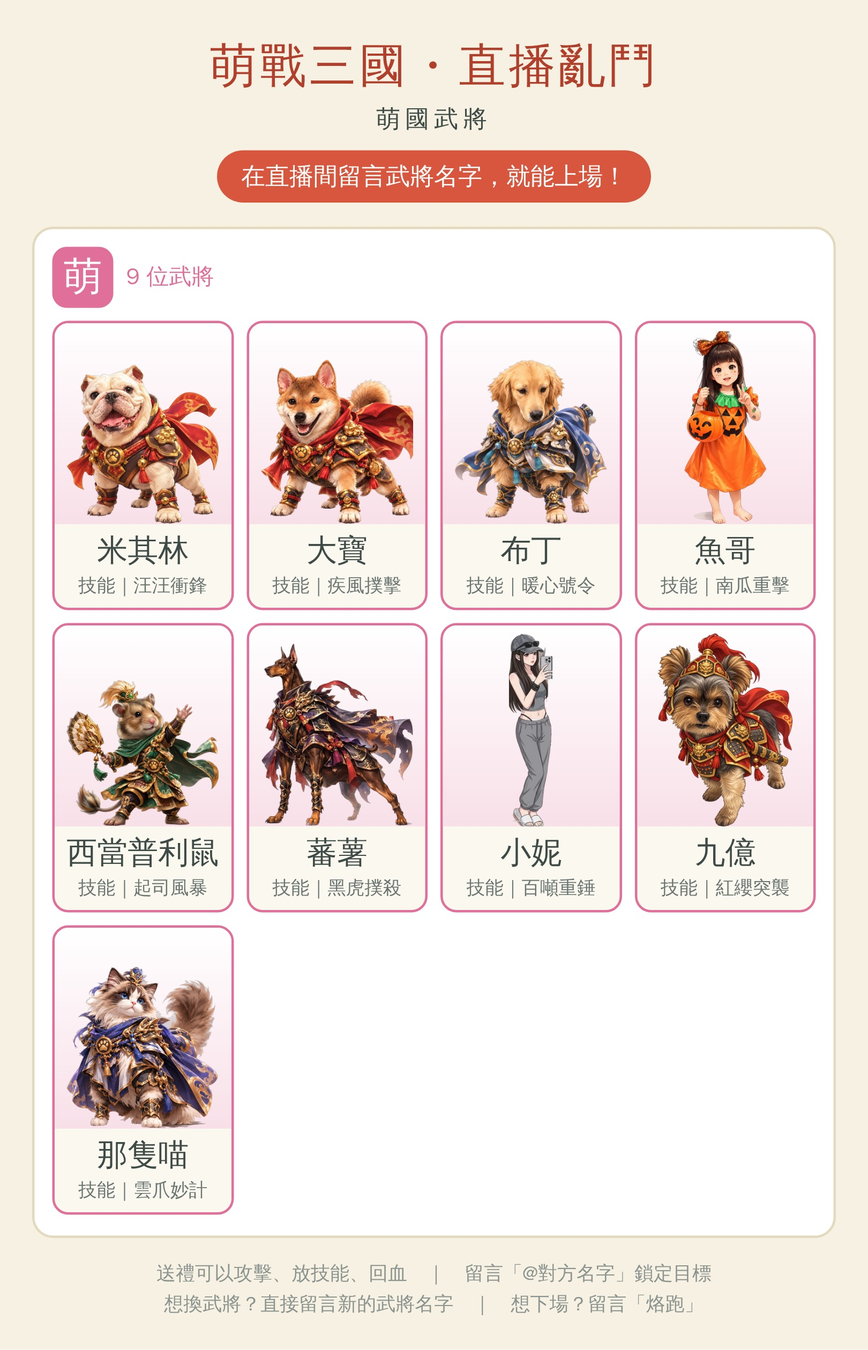
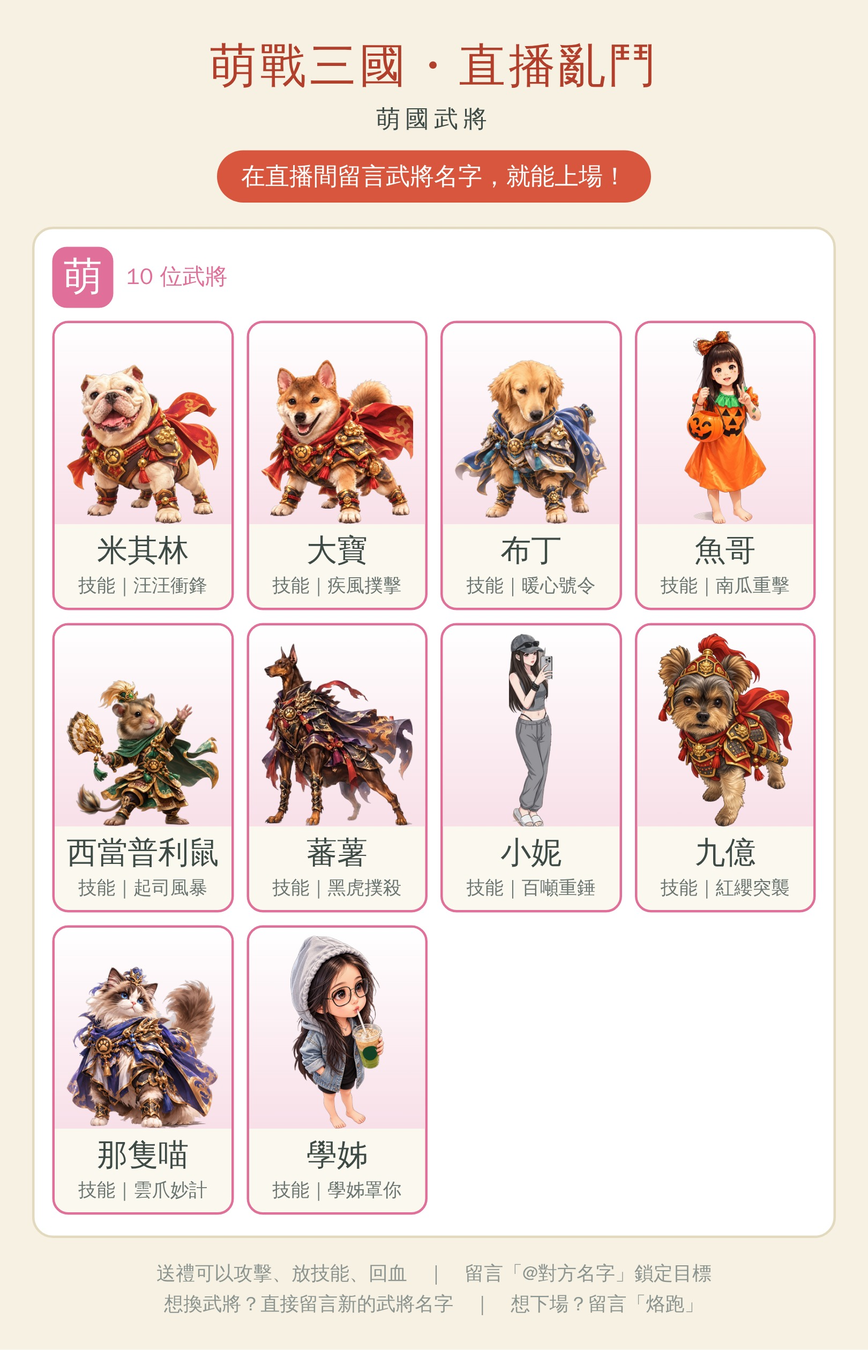
學姊：新角色與全套動畫（走路／普攻／技能／待機） (#88)
* 新增萌國角色「學姊」（統帥）＋動畫提示詞；原圖星巴克商標塗掉；cutout_hero 加 --model

Claude-Session: https://claude.ai/code/session_01J1mi4tQsbQufTfnNbsrTar

* 學姊待機動畫提示詞改成自拍

Claude-Session: https://claude.ai/code/session_01J1mi4tQsbQufTfnNbsrTar

* 學姊加第二組待機提示詞：拿麥克風唱歌

Claude-Session: https://claude.ai/code/session_01J1mi4tQsbQufTfnNbsrTar

* 學姊走路／普攻／技能逐格動畫登記（原圖商標塗掉）；待機圖不能用須重生

Claude-Session: https://claude.ai/code/session_01J1mi4tQsbQufTfnNbsrTar

* 學姊待機提示詞：加入杯子當麥克風版本

Claude-Session: https://claude.ai/code/session_01J1mi4tQsbQufTfnNbsrTar

* 學姊：待機動畫（拿麥克風唱歌，上半身格接技能圖下半身）

Claude-Session: https://claude.ai/code/session_01J1mi4tQsbQufTfnNbsrTar

---------

Changed region(s): [[0.2778, 0.6812, 0.4938, 0.898], [0.1543, 0.1858, 0.2469, 0.2168], [0.463, 0.6812, 0.4938, 0.7122]]

diff --git a/js/config.js b/js/config.js
@@ -16,6 +16,7 @@ window.GAME_CONFIG = {
     hamster:  { attack: { style: 'projectile', emoji: '🧀', color: '#ffd35c' }, skill: { style: 'emojiStorm', emoji: '🧀', n: 18, color: '#ffd35c' } },   // 西當普利鼠：丟起司、起司旋風
     yam:      { attack: { style: 'claw', color: '#b06cff' }, skill: { style: 'tigerPounce', color: '#b06cff' } },                      // 蕃薯：紫色爪痕、猛虎撲殺
     joy:      { attack: { style: 'claw', color: '#ff5a4d' }, skill: { style: 'emojiRain', emoji: '🍗', n: 10, big: 0.6, color: '#ffb36b' } },   // Joy：紅色爪痕、大雞腿雨
+    xuejie:   { attack: { style: 'projectile', emoji: '🧋', color: '#d9b27a' }, skill: { style: 'heartWave', emoji: '🍵', color: '#7bd46b' } },   // 學姊：丟冰飲、抹茶光波
     nekomeow: { attack: { style: 'claw', color: '#8f9bff' }, skill: { style: 'emojiStorm', emoji: '🐾', n: 16, color: '#8f9bff' } },   // 那隻喵：藍紫爪痕、肉球旋風
     xiaoni:   { attack: { style: 'shockSmash', color: '#ffd35c' }, skill: { style: 'stampSmash', text: '100T', color: '#ffd35c' } },   // 小妮：重擊震波、100T 大字砸下來
   },
@@ -406,6 +407,13 @@ window.GAME_CONFIG = {
       walk: { src: 'hamster_walk.png', frames: 7, cw: 271, ch: 324, ground: 320, fps: 9 },   // 走路循環（原圖 16 格有的有羽扇有的沒有，只挑有羽扇的 7 格）
     },
     // 蕃薯：待機＝吃薯條（8 格，每秒 3 格連播 2 輪）；攻擊／技能＝撲出去咬（8 格，第 5 格咬下去；普攻 13 格/秒、技能 11 格/秒）
+    xuejie: {
+      idle: { src: 'xuejie_idle.png', frames: 7, cw: 252, ch: 415, ground: 412, fps: 3, repeat: 2 },   // 待機：拿麥克風唱歌（用 AI 原圖只有上半身的格子接上腿拼成，共 7 格；原圖第 7 格沒拿杯子沒用）
+      eat: { src: 'xuejie_idle.png', frames: 7, cw: 252, ch: 415, ground: 412, fps: 3, repeat: 2 },   // 回血時也播同一組
+      walk: { src: 'xuejie_walk.png', frames: 12, cw: 193, ch: 407, ground: 404, fps: 12 },   // 走路循環（悠閒走路，12 格；原圖 3 排各 4 格，第 3 排杯子上的星巴克商標已塗成素色貼紙）
+      attack: { src: 'xuejie_attack.png', frames: 8, cw: 295, ch: 399, ground: 395, fps: 10, hitFrame: 6 },   // 普攻：吸飲料→皺眉→彈指→伸手向前（第 6 格打中）→收回（最後一格的星巴克商標已塗掉）
+      skill: { src: 'xuejie_skill.png', frames: 8, cw: 223, ch: 410, ground: 407, fps: 9, hitFrame: 7 },   // 技能「學姊罩你」：舉杯→叉腰→頭髮飛揚→比讚笑→手指向前（第 7 格施放）→回站姿。原圖第 8 格只畫到腰（被格子切掉）沒用，共 8 格
+    },
     nekomeow: {
       idle: { src: 'nekomeow_idle.png', frames: 7, cw: 420, ch: 293, ground: 290, fps: 3, repeat: 2 },   // 待機：洗臉理毛（站姿→抬爪→舔肉球→擦臉頰→放下爪），連播 2 輪（Gemini 生圖 8 格，第 8 格是正面站姿跟其他格不連，只用前 7 格）
       eat: { src: 'nekomeow_idle.png', frames: 7, cw: 420, ch: 293, ground: 290, fps: 3 },                // 回血：同一組，播一輪
@@ -454,7 +462,7 @@ window.GAME_CONFIG = {
   // 程式假設每張全身圖原本都是「面向左邊」，往右走時會把圖左右翻面。
   // 如果發現某隻武將走路時是倒退著走（背對前進方向），代表牠的原圖其實面向右，
   // 把牠的英文 ID 加進下面這個清單就會修正。例如： ['taishici', 'sunquan']
-  artFacesRight: ['taishici'],
+  artFacesRight: ['taishici', 'xuejie'],
 
   // ---------- 留言指令 ----------
   commands: {

diff --git a/tools/make_howto.js b/tools/make_howto.js
@@ -223,11 +223,11 @@ const AVAIL_H = 1920 - 130 - 300 - 90 - 140;   // 扣掉上面標題列、陣營
 for (const key of FACTION_ORDER) {
   const f = factions[key], list = heroData.filter(h => h.faction === key);
   if (!list.length) continue;
-  const rows = Math.ceil(list.length / 3), perRow = Math.min(rows === 1 ? 520 : 430, (AVAIL_H - (key === 'Meng' ? 440 : 0) - (rows - 1) * 14) / rows), imgH = Math.round(perRow - 118);
+  const rows = Math.ceil(list.length / 3), perRow = Math.min(rows === 1 ? 520 : 430, (AVAIL_H - (key === 'Meng' ? 300 : 0) - (rows - 1) * 14) / rows), imgH = Math.round(perRow - 118);
   slides.push(`<div class="slide" style="--c:${f.color}">${top(slides.length + 1)}<div class="body" style="justify-content:flex-start">
     <div class="fac-head"><div class="seal">${f.label}</div><div class="tt">${f.label + (key === 'Meng' ? '國' : '')}武將<small>${list.length} 位武將　留言名字就能選</small></div></div>
     <div class="grid3">${list.map(h => `<div class="hc"><div class="pic"><img src="${img(h.heroId + '.png')}" style="height:${imgH}px"></div><div class="nm">${h.displayName}</div><div class="sk">${h.skillName}</div></div>`).join('')}</div>
-    ${key === 'Meng' ? `<div class="card" style="margin-top:24px;padding-left:36px;text-align:center;background:#FBE9F0;border-color:#F3C4D6"><p style="font-size:46px;line-height:1.5"><b>直播亂鬥專屬的萌國角色</b><br>其他地方看不到，<br>留言名字就能選！<br>${heroData.filter(h => h.faction === 'Meng').map(h => `<span class="say">${h.displayName}</span>`).join('')}</p></div>` : ''}
+    ${key === 'Meng' ? `<div class="card" style="margin-top:24px;padding-left:36px;text-align:center;background:#FBE9F0;border-color:#F3C4D6"><p style="font-size:46px;line-height:1.5"><b>直播亂鬥專屬的萌國角色</b><br>其他地方看不到，<br>留言名字就能選！</p></div>` : ''}
   </div></div>`);
 }
 

diff --git a/data/extra-heroes.js b/data/extra-heroes.js
@@ -25,4 +25,6 @@ window.HEROES_DATA = window.HEROES_DATA.concat([
   { heroId: 'joy', displayName: '九億', faction: 'Meng', troop: 'Ranger', baseHp: 540, baseAtk: 72, baseArmor: 25, skillName: '紅纓突襲', extra: true },
   // 那隻喵（2026-11-16 咖哩第九隻）：萌國的布偶貓謀士（藍紫金披風、肉球徽章、小金冠；設定稿標「貓將・智謀・輔佐・謀略」）。能力值取謀士水準（同西當普利鼠：血少、攻中、防低），技能「雲爪妙計」，演出＝法陣落雷。名字以外的設定（兵種、數值、技能名）是 Claude 先定的。
   { heroId: 'nekomeow', displayName: '那隻喵', faction: 'Meng', troop: 'Strategist', baseHp: 600, baseAtk: 68, baseArmor: 28, skillName: '雲爪妙計', extra: true },
+  // 學姊（2026-11-16 咖哩第十隻）：萌國的長髮眼鏡女孩統帥（灰色連帽、牛仔外套、黑色上衣短褲、光腳，手拿冰抹茶拿鐵）。能力值取統帥平均（同布丁），技能「學姊罩你」，演出＝光環＋光柱。名字以外的設定（兵種、數值、技能名）是 Claude 先定的。原圖的杯子上有星巴克的商標，已在圖上把商標塗成素色綠色圓形貼紙（見 CLAUDE.md）。
+  { heroId: 'xuejie', displayName: '學姊', faction: 'Meng', troop: 'Commander', baseHp: 746, baseAtk: 55, baseArmor: 34, skillName: '學姊罩你', extra: true },
 ]);

diff --git a/js/version.js b/js/version.js
@@ -1,3 +1,3 @@
 // 目前的版本號。每次有更新要上線，就跑 python3 tools/bump_version.py（會同時改這個檔和 version.json）。
 // 直播畫面會定時去讀 version.json，發現跟自己不一樣就自動更新（見 js/updater.js）。
-window.APP_VERSION = '2026-11-16.23';
+window.APP_VERSION = '2026-11-16.26';

diff --git a/CLAUDE.md b/CLAUDE.md
@@ -192,7 +192,7 @@
 
 ## 素材與資料：來自 Curry_Games（只讀）
 - `sky03104/Curry_Games` 是另一個遊戲「萌戰三國」。**只能讀，不可修改、不可 commit、不可 push。**
-- 武將資料以 `Curry_Games/UnityProject/Assets/_Project/Data/heroes.json` 為準（38 隻）。**例外：直播亂鬥自己新增的角色**放在 `data/extra-heroes.js`（手寫，不會被同步工具蓋掉），目前有「米其林」「大寶」「布丁」「魚哥」「西當普利鼠」「蕃薯」「小妮」「九億」「那隻喵」（都是萌國）。
+- 武將資料以 `Curry_Games/UnityProject/Assets/_Project/Data/heroes.json` 為準（38 隻）。**例外：直播亂鬥自己新增的角色**放在 `data/extra-heroes.js`（手寫，不會被同步工具蓋掉），目前有「米其林」「大寶」「布丁」「魚哥」「西當普利鼠」「蕃薯」「小妮」「九億」「那隻喵」「學姊」（都是萌國）。
   中文名、英文 ID、陣營的對應**一律照這個檔，不要自己猜**。
   - 注意：檔案裡陣營的寫法是 `Wei`／`Shu`／`Wu`／`Qun`（群不是寫「群」）。
 - 武將圖用**全身圖**：`Curry_Games/UnityProject/Assets/_Project/Resources/HeroPortraitsFullBody2D/`，
@@ -216,6 +216,7 @@
   - **米其林、大寶的專屬攻擊動畫**（2026-11-14）：米其林＝低頭衝撞頂飛（`michelin_attack.png`，8 格，第 5 格撞擊；普攻 13 格/秒、技能 11 格/秒）；大寶＝蓄力後嘴裡射出金色光球（`dabao_attack.png`，7 格，第 4 格光球射出；普攻 10 格/秒、技能 9 格/秒）。普攻、技能共用同一組。兩組都是 Gemini 生成，**排版不整齊**：米其林是 2 欄 4 列有黑格線（`--grid 2x4 --erase-grid 5`），而且 Gemini 把第 3~7 格畫成面向右，所以 `make_anim_sheet.py` 新增 `--flip 3,4,5,6,7`（個別幾格單獨左右翻面）；大寶是 3x3 共 9 格，其中第 5 格只有光球沒有狗、第 7 格狗被切掉一半，所以新增 `--pick 1,2,3,4,6,8,9`（只用指定的格，順序自訂），並用 `--cx/--feet --scale 1.29` 手動對位（光球和狗連在一起，自動判斷會偏）。大寶的光球是畫在動畫裡的，技能同時還有遊戲自己的光彈特效，兩個會同時出現。驗證：瀏覽器測過兩隻的普攻、技能動畫都有播、無錯誤；⚠ 沒在直播軟體裡看過。
   - **小妮的攻擊改慢、錘子換金色**（2026-11-15 咖哩要求；先試過程式把黑錘改紅，後來咖哩給了 Gemini 重生的金色大錘新圖就整組換掉）：新圖第 6、7 格的錘頭和身體疊在一起（連成一塊，工具切不開），所以第 7 格（砸地）用顏色分開處理後再拼回去；第 7 格左邊的塵土有一條垂直切痕；攻擊 3.5 格/秒、技能 2.8 格/秒（咖哩再嫌快，原本 5／4），整段約 2.3／2.9 秒，砸中約 1.9／2.3 秒。**新機制 `hitFrame`**：`heroAnims.<id>.attack／skill` 可寫 `hitFrame: 7`（第幾格打中），衝撞時間與傷害數字就對在那一格（沒寫的武將仍是固定 0.31 秒）。驗證：瀏覽器測過普攻約 1.3 秒時傷害數字出現、錘子剛好砸在地上；⚠ 錘頭上色是程式按位置挑的，個別格子頭髮或手邊有零星紅點。
   - **那隻喵**（2026-11-16 咖哩第九隻）：布偶貓謀士（藍眼、深棕白毛、小金冠、藍紫金邊披風、肉球徽章；咖哩給的設定稿上寫「貓將・雲瑛・智謀・輔佐・謀略」，**遊戲裡名字用咖哩指定的「那隻喵」**），`heroId: nekomeow`，謀士（技能演出＝法陣落雷），血 600／攻 68／防 28（同西當普利鼠），技能「雲爪妙計」。名字以外的設定（兵種、數值、技能名）是 Claude 先定的。圖：從咖哩給的角色設定稿裁出左上最大的那隻（座標約 0,0～715,762），用 `tools/cutout_hero.py` 去背（乾淨，沒有留下設定稿的字或其他視角），`assets/heroes/nekomeow.png`；圖面向左（臉朝向畫面左邊偏正面）。專屬特效：藍紫色爪痕（普攻）＋肉球🐾旋風（技能，`emojiStorm`）。**逐格動畫已做好並登記**（2026-11-16 咖哩用 Gemini 照 `tools/anim_prompts/nekomeow.md` 的提示詞生圖）：**待機**＝洗臉理毛（`nekomeow_idle.png`，原圖 8 格但第 8 格是正面站姿跟其他格不連，只用前 7 格，3 格/秒連播 2 輪，回血 `eat` 用同一組）、**走路**＝四足側面（`nekomeow_walk.png`，8 格，9 格/秒；原圖有黑格線，`--erase-grid 12 --drop-thin 8`）、**普攻**＝蓄力→前撲→空中舉爪→爪擊（`nekomeow_attack.png`，**原圖只有 4 個能用的格**：另一張是特寫、大小不一，所以只用 4 格＋最後一格接回第 1 格的蓄力當落地，共 5 格，10 格/秒，`hitFrame: 4`；原圖第 4 格方向跟前三格相反，用 `--flip 4`）、**技能「雲爪妙計」**＝站起→雙爪高舉→肉球符印浮現→推出→符印飛遠→收勢（`nekomeow_skill.png`，**9 格**，9 格/秒，`hitFrame: 7`）。原圖面向右（走路、待機、技能）或左（普攻前三格）。**排版不規則的圖（技能圖是 3＋2＋2＋2、普攻圖有特寫）的做法**：不用工具硬切，先用小程式把每格手動框出來、重新貼成整齊的 3x3（或 2x2）乾淨格子（每格只含自己的貓和特效），再丟給 `make_anim_sheet.py`；並順手擦掉旁邊大圖伸進來的披風一角。四組的縮放（`--scale` 1.0／1.15／1.08／1.42）是量「頭的大小」跟單張圖對齊的，各原圖解析度、排版不同所以不一樣。`make_anim_sheet.py` 新增 `--drop-thin N`（把又扁又細、高或寬 ≤ N 像素的碎片丟掉，格線沒擦乾淨留下的細線；主體不會被丟）。驗證：瀏覽器測過留言上場、待機、走路、普攻（爪痕特效＋傷害數字）、技能（法陣＋肉球旋風＋動畫）都有播、無錯誤；⚠ 沒在直播軟體裡看過；普攻只有 4 張原圖格，動作比其他角色短而簡單，想更完整可以再生一組普攻（提示詞同檔案第 3 個，注意不要出現特寫、每格大小一致）；賽跑時走路動畫已有。名冊圖（`roster/`）與玩法說明圖（第 15 張萌國頁，9 位）已重新產生；萌國頁因為多一隻，下方文字卡預留空間從 360 改 440 才收得進安全區。驗證：瀏覽器測過留言「那隻喵」上場、顯示「萌・那隻喵」、普攻與技能無錯誤；⚠ 沒在直播軟體裡看過，特效顏色與演出沒細看。
+  - **學姊**（2026-11-16 咖哩第十隻）：長髮眼鏡女孩統帥（灰色連帽、黑框眼鏡、牛仔外套、黑上衣短褲、光腳、手拿冰抹茶拿鐵），`heroId: xuejie`，統帥（技能演出＝光環＋光柱），血 746／攻 55／防 34（同布丁，**全員同能力開著時不生效**），技能「學姊罩你」。名字以外的設定（兵種、數值、技能名）是 Claude 先定的。專屬特效：丟冰飲🧋（普攻）＋抹茶🍵光波（技能，`heartWave`）。**⚠ 原圖杯子上有星巴克（Starbucks）的商標（美人魚圖案）**——這個 repo 是公開的、要在 TikTok 直播，真實品牌商標不適合放進去，所以**處理圖時用小程式把商標塗掉，變成杯上一個素色深綠色圓形貼紙**（只改商標圓形範圍內的像素、避開手指；`assets/heroes/xuejie.png`）。**之後給 Claude 新圖或動畫圖時，如果杯子上還有商標，Claude 會再塗掉；生圖提示詞也已寫明「杯身不要商標」**。去背：預設模型（isnet）會把裸露的小腿和腳當成背景去掉（背景是深色光暈、皮膚顏色接近），改用 `birefnet-general`（`cutout_hero.py --model birefnet-general`，第一次執行下載約 1GB 模型，這台雲端環境下載得到），全身（含光腳）完整。圖面向右（視線往右上），所以列進 `config.js` 的 `artFacesRight`（跟太史慈一樣，程式才會左右翻對）。**逐格動畫：走路／普攻／技能／待機都已做好並登記**（2026-11-16 咖哩用 Gemini 生圖）：**走路**＝悠閒走路 12 格（`xuejie_walk.png`，12 格/秒）、**普攻**＝吸飲料→皺眉→彈指→伸手向前→收回 8 格（`xuejie_attack.png`，`hitFrame: 6`，伸手向前那格）、**技能**＝舉杯→叉腰→頭髮飛揚→比讚笑→手指向前→回站姿 8 格（`xuejie_skill.png`，`hitFrame: 7`，手指向前那格；原圖第 8 格只畫到腰、被格子切掉所以沒用）。**⚠ Gemini 雖然被要求杯身不能有商標，但走路圖第 3 排 4 格、普攻圖最後一格的杯子上還是長出了星巴克商標**：這幾格我用小程式在杯上蓋素色深綠貼紙（座標是看圖量的，不是自動偵測；自動偵測會誤傷腿上陰影，所以改手動座標）。**之後每次收到她的新動畫圖，都要檢查杯子有沒有商標**。圖片版面不規則（技能圖有格子黏在一起、有的格被切掉），做法：自動找出每個角色（連通塊，附近的小碎片歸給最近的角色）、第 6／7 格黏在一起的用「侵蝕找出兩個身體核心再把其餘像素分給最近的核心」切開、小於本體 1.2% 的雜點丟掉，再重新貼成整齊的格子交給 `make_anim_sheet.py`（`--scale` 0.89～1.0 依各圖角色大小量過）。**待機（拿麥克風唱歌）已做好並登記**（`xuejie_idle.png`，7 格，3 格/秒連播 2 輪，回血 `eat` 用同一組）：咖哩第三版生圖仍然每格只畫到腰（被格子切掉腿），所以**用技能圖裡的下半身（短褲＋腿＋光腳）接到每格上半身上**（比對黑衣寬度與中心後縮放貼上，腳本不在 repo、一次性做的）；原圖第 7 格沒拿杯子丟掉、第 2 格沒拿杯子保留（唱歌拿麥克風的那格，可接受）。⚠ 大腿接縫處第 5～7 格有淡淡的接線痕跡，畫面縮小後看不出來；想更乾淨要請 Gemini 重生「全身入鏡」的版本。登記後她停下來時會播這組。其餘提示詞在 `tools/anim_prompts/xuejie.md`（待機＝自拍（掏手機、剪刀手吐舌、鴨子嘴、看照片笑，2026-11-16 咖哩嫌原本「悠哉喝飲料」太普通換掉），另有第二組待機「拿麥克風唱歌」（提示詞 1b，咖哩 2026-11-16 要的，登記時當 `idle2`，兩組停下來時隨機挑）、走路＝悠閒走路、普攻＝彈指一擊（第 5 格命中）、技能＝舉杯鼓舞（第 6 格施放），都寫明不畫特效、杯身無商標），咖哩生圖後交給 Claude 處理。名冊圖與玩法說明圖已重新產生（萌國頁 10 位，下方文字卡拿掉重複的名字列表，騰空間給 4 排武將圖）。⚠ 觀眾留言**含「學姊」兩個字**（第一次上場是「留言含武將名就算」）就會帶這隻上場，聊天裡提到學姊會誤觸發；驗證：瀏覽器測過留言上場、顯示「萌・學姊」、普攻與技能（抹茶光波）無錯誤；⚠ 沒在直播軟體裡看過。
   - 觀眾第一次上場是「留言裡含武將名就算」，所以聊天提到「米其林餐廳」之類的詞也會讓還沒上場的人帶著米其林上場。
 - 同步方式：`python3 tools/sync_from_curry_games.py`（需要 Pillow），會重新產生 `data/heroes.js`，
   並把全身圖縮成 312x396 放到 `assets/heroes/`（原圖每張約 0.5MB，縮小後整包約 7MB）。
@@ -335,9 +336,9 @@
 | `index.html` | 入口。直接開＝帶假事件面板的試玩模式；網址加 `?obs=1`＝只有透明遊戲畫面（給 OBS） |
 | `js/config.js` | **設定檔**：禮物、傷害、血量、復活秒數、顏色 |
 | `data/heroes.js` | 38 隻武將資料（自動產生） |
-| `assets/heroes/` | 47 張武將全身圖（已縮小）：38 張來自萌戰三國，加上自己新增的萌國 9 隻（米其林、大寶、布丁、魚哥、西當普利鼠、蕃薯、小妮、九億、那隻喵）|
-| `data/extra-heroes.js` | 自己新增的角色資料（手寫）：萌國 9 隻 |
-| `tools/anim_prompts/` | 給生圖工具的逐格動畫提示詞（目前有那隻喵） |
+| `assets/heroes/` | 47 張武將全身圖（已縮小）：38 張來自萌戰三國，加上自己新增的萌國 10 隻（米其林、大寶、布丁、魚哥、西當普利鼠、蕃薯、小妮、九億、那隻喵、學姊）|
+| `data/extra-heroes.js` | 自己新增的角色資料（手寫）：萌國 10 隻 |
+| `tools/anim_prompts/` | 給生圖工具的逐格動畫提示詞（目前有那隻喵、學姊） |
 | `tools/cutout_hero.py` | 把角色圖去背並轉成遊戲用的全身圖 |
 | `js/events.js` | 事件來源層（假面板／之後的 TikTok） |
 | `js/gift-settings.js` | TikTok 禮物 → 動作的設定（存在瀏覽器與直播用網址裡） |

diff --git a/tools/anim_prompts/xuejie.md b/tools/anim_prompts/xuejie.md
@@ -1,0 +1,131 @@
+# 學姊（xuejie）逐格動畫提示詞（給 Gemini 等生圖工具）
+
+用法：每次都**附上參考圖**（`assets/heroes/xuejie.png`，或你的原圖），貼上「共用規格」＋下面某一個動畫的提示詞。
+生成後把圖給 Claude，用 `tools/make_anim_sheet.py` 處理並登記 `heroAnims`。建議命中格：普攻第 5 格、技能第 6 格。
+
+## 共用規格（每個動畫都要貼）
+```
+角色：附圖裡的長髮女孩「學姊」——戴著灰色連帽（帽子罩在頭上）、黑框圓眼鏡、棕黑色長髮、藍色牛仔外套（袖子捲起）、黑色上衣與黑色短褲、光腳、頸上有細項鍊，一隻手拿著透明塑膠杯的冰抹茶拿鐵（吸管、冰塊、上層奶茶色、下層抹茶綠）。每一格的臉、髮型、服裝、杯子都必須一模一樣。
+杯子重要：杯身上不要有任何商標、文字、圖案，只有一個素色深綠色的圓形貼紙。
+
+背景：純綠色 #00FF00，整張圖只有這一種綠色，不要地面、不要陰影、不要漸層。（角色身上不要出現鮮豔的純綠色，抹茶杯維持附圖那種偏橄欖的暗綠色。）
+
+排版：8 格，4 欄 × 2 列，每格一樣大、等距排列，格與格之間留綠色空白；不要格線、邊框、文字、編號。閱讀順序由左到右、由上到下。
+
+每一格：角色全身完整入鏡（含頭髮、帽子、腳，不被切到邊）；**角色要畫小一點，每格上下左右都留至少 10% 的綠色空白，絕對不能超出格子、不能被切掉腳或腿**；角色大小每格一致；腳底站的高度每格一致（跳起來的格除外）。
+
+方向：角色面向畫面右邊（跟參考圖一樣，側面或 3/4 側面）。
+鏡頭：跟參考圖一樣的斜上方 3/4 視角，每格鏡頭角度一致。
+畫風：跟附圖一樣的精緻可愛插畫風，皮膚與頭髮細緻。
+特效：什麼特效都不要畫（不要光、不要線條、不要文字），特效由遊戲自己處理。
+```
+
+---
+
+## 1. 待機（idle）——自拍，8 格，循環播放
+```
+【貼上共用規格，另外加一條：手機是素色黑色手機，背面沒有任何商標、圖案或文字】
+
+動畫：待機，學姊自拍，8 格，循環播放。一隻手一直拿著飲料，另一隻手拿手機。8 格由左到右、由上到下：
+1. 站著，嘴含著吸管，一隻手拿杯子，另一隻手插在外套口袋，眼睛看向前方。
+2. 插口袋的手掏出一支素色黑色手機，眼睛看向手機，嘴角微微上揚。
+3. 手機舉到臉前面（手機螢幕朝向自己，只看得到手機背面），頭微微歪向一邊，眨一隻眼睛。
+4. 比出 YA（剪刀手）擺在臉旁，吐舌頭做鬼臉，眼睛彎成月牙。
+5. 換成鴨子嘴（嘟嘴）賣萌，頭歪向另一邊，眼神無辜。
+6. 手機放下到胸前，低頭看剛拍的照片，噗哧笑出來。
+7. 笑得肩膀抖動，用拿杯子的那隻手擋在嘴巴前面，眼睛瞇成一條線。
+8. 手機收回口袋，回到站姿，嘴含回吸管（動作要能接回第 1 格，循環不跳）。
+```
+
+## 1b. 待機二（拿麥克風唱歌，循環）——可以跟自拍當兩組待機，停下來時隨機挑一組
+```
+【貼上共用規格，另外加一條：麥克風是素色黑色手持麥克風，沒有任何商標、圖案或文字；可以有少量金色小音符，音符要不透明、不要跟角色身體連在一起；如果畫不好就不要畫音符】
+
+動畫：待機，學姊拿麥克風唱歌，8 格，循環播放。杯子一直拿在左手（靠畫面後面那隻），麥克風拿在右手。8 格由左到右、由上到下：
+1. 站著，嘴含著吸管，一隻手拿杯子，另一隻手插在外套口袋，眼睛看向前方。
+2. 吐掉吸管，插口袋的手抽出，手裡多了一支素色黑色手持麥克風，嘴角上揚，神情期待。
+3. 麥克風舉到嘴邊，閉上眼睛深呼吸，準備開唱。
+4. 張嘴唱歌，麥克風靠近嘴巴，眼睛閉著，頭微微隨節奏往左歪，拿杯子的手輕輕打拍子。
+5. 唱到高音：頭抬起、下巴揚起，麥克風稍微拿離嘴巴一點，眼睛閉著，表情投入。
+6. 搖頭晃腦，長髮與帽子被甩動，身體隨節拍左右搖擺，笑得很開心，（可選）旁邊飄兩三個金色小音符。
+7. 睜開眼睛，對前方比一個飛吻（空著的手；如果空不出手就用拿杯子的手），單眼眨一下，表情俏皮。
+8. 麥克風放下收回，另一隻手回口袋，嘴含回吸管，回到站姿（動作要能接回第 1 格，循環不跳）。
+```
+登記到遊戲時，這組會是 `idle2`，跟自拍那組在每次停下來時隨機挑一組播。
+
+---
+
+## 1c. 待機二（拿飲料杯當麥克風唱歌，循環，2026-11-16 新版）
+理由：麥克風版兩次生圖都出問題（每格杯子和麥克風只能留一個、杯子會消失，前 4 格腿被格子切掉）。改成**杯子就是麥克風**，一隻手、一個物件，不會消失。
+```
+【貼上新版共用規格】
+
+動畫：待機，學姊把手上的冰抹茶杯當成麥克風唱歌，8 格，循環播放。杯子全程在同一隻手（右手）上，另一隻手（左手）做手勢。8 格由左到右、由上到下：
+1. 站著，嘴含著吸管，右手拿杯子在胸前，左手插在外套口袋，眼睛看向前方。
+2. 吐掉吸管，杯子舉到嘴巴前面（像拿麥克風），嘴角上揚，神情期待。
+3. 閉上眼睛，杯子靠近嘴邊，張嘴唱歌，頭微微往左歪。
+4. 唱到高音：下巴揚起、頭抬高，杯子稍微拿離嘴巴，左手從口袋抽出，舉到胸前握拳（很投入的樣子）。
+5. 搖頭晃腦，長髮與帽子被甩動，身體隨節拍左右搖擺，笑得很開心，左手跟著打拍子。
+6. 睜開眼睛，左手向前（畫面右側）伸出手掌，像在邀請大家一起唱，表情開朗。
+7. 單眼眨一下，左手比一個愛心或飛吻，杯子仍舉在嘴邊。
+8. 左手收回口袋，杯子放回胸前，嘴含回吸管，回到站姿（動作要能接回第 1 格，循環不跳）。
+```
+
+---
+
+（舊版備案：悠哉喝飲料——站著 → 低頭吸吸管 → 滿足瞇眼 → 撥頭髮 → 歪頭，保留在 git 歷史裡。）
+
+---
+
+## 2. 走路（walk）——悠閒走路，8 格，循環播放
+```
+【貼上共用規格】
+
+動畫：走路，角色向右邊悠閒走路，8 格循環，第 8 格要能順順接回第 1 格。
+全程：一隻手穩穩拿著飲料（杯子隨步伐微微上下），另一隻手插口袋；光腳；長髮與帽子隨步伐輕輕擺動；頭保持穩定看前方。
+1. 接觸：前腳（靠畫面前面）向前踩出，腳跟著地，後腳在後面。
+2. 下沉：身體微微下壓，長髮往後飄一點。
+3. 經過：兩腳在身體下方交會，身體最挺直。
+4. 上升：身體微微抬起，後腳向前擺出。
+5. 接觸：另一隻腳向前踩出著地（對稱第 1 格）。
+6. 下沉：身體微下壓，頭髮擺到另一邊。
+7. 經過：兩腳交會，杯子輕輕晃一下。
+8. 上升：準備回到第 1 格。
+```
+
+## 3. 普攻（attack）——彈指一擊，8 格，第 5 格命中
+```
+【貼上共用規格】
+
+動畫：普攻，彈指一擊，8 格，第 5 格是命中瞬間。杯子一直拿在原本那隻手上，用另一隻手彈指。
+1. 站姿，嘴含著吸管，眼神看向前方。
+2. 吐掉吸管，眼神變得銳利，插口袋的手從口袋抽出。
+3. 手臂向後拉，食指與拇指扣成彈指的姿勢，身體往後微仰，眉頭皺起。
+4. 身體前傾，手臂向前甩出，頭髮與帽子被甩得往後飄。
+5. 【命中】食指用力彈出，手臂伸直向前，表情得意、嘴角上揚。
+6. 手臂停在最前面，身體重心在前腳，頭髮飛揚。
+7. 手收回，身體慢慢回正。
+8. 回到站姿，嘴巴又含回吸管，吸一口（接近第 1 格）。
+```
+
+## 4. 技能「學姊罩你」（skill）——乾杯鼓舞，8 格，第 6 格施放
+```
+【貼上共用規格】
+
+動畫：技能，學姊舉杯鼓舞大家，8 格，第 6 格是施放瞬間。
+1. 站姿，深吸一口氣，眼神變得自信。
+2. 抬起頭，把杯子舉到胸前，另一隻手從口袋抽出。
+3. 杯子高高舉過頭（像乾杯），身體挺直。
+4. 另一隻手叉腰，下巴微微抬起，笑得自信。
+5. 身體微微後仰，帽子與長髮被氣流吹得飄起，衣角飄動。
+6. 【施放】拿杯子的手往前（畫面右側）用力一指，另一隻手比出大拇指，身體前傾，開心大笑。
+7. 維持指向前方的姿勢，頭髮與外套飛揚，表情自信。
+8. 收勢，手放下，回到站姿，嘴含回吸管（接近第 1 格）。
+```
+
+---
+
+## 小提醒
+- 一次畫 8 格失敗時，改成**一格一格畫**：每次附上「參考圖＋這個動畫已畫好的第 1 格」，說「同一個角色、同樣大小、同樣背景，畫第 N 格：……」。
+- 如果畫面裡杯子又出現商標，請重畫或告訴 Claude，Claude 會再把商標塗掉。
+- 有格面向左也沒關係，工具可以單獨翻面。
